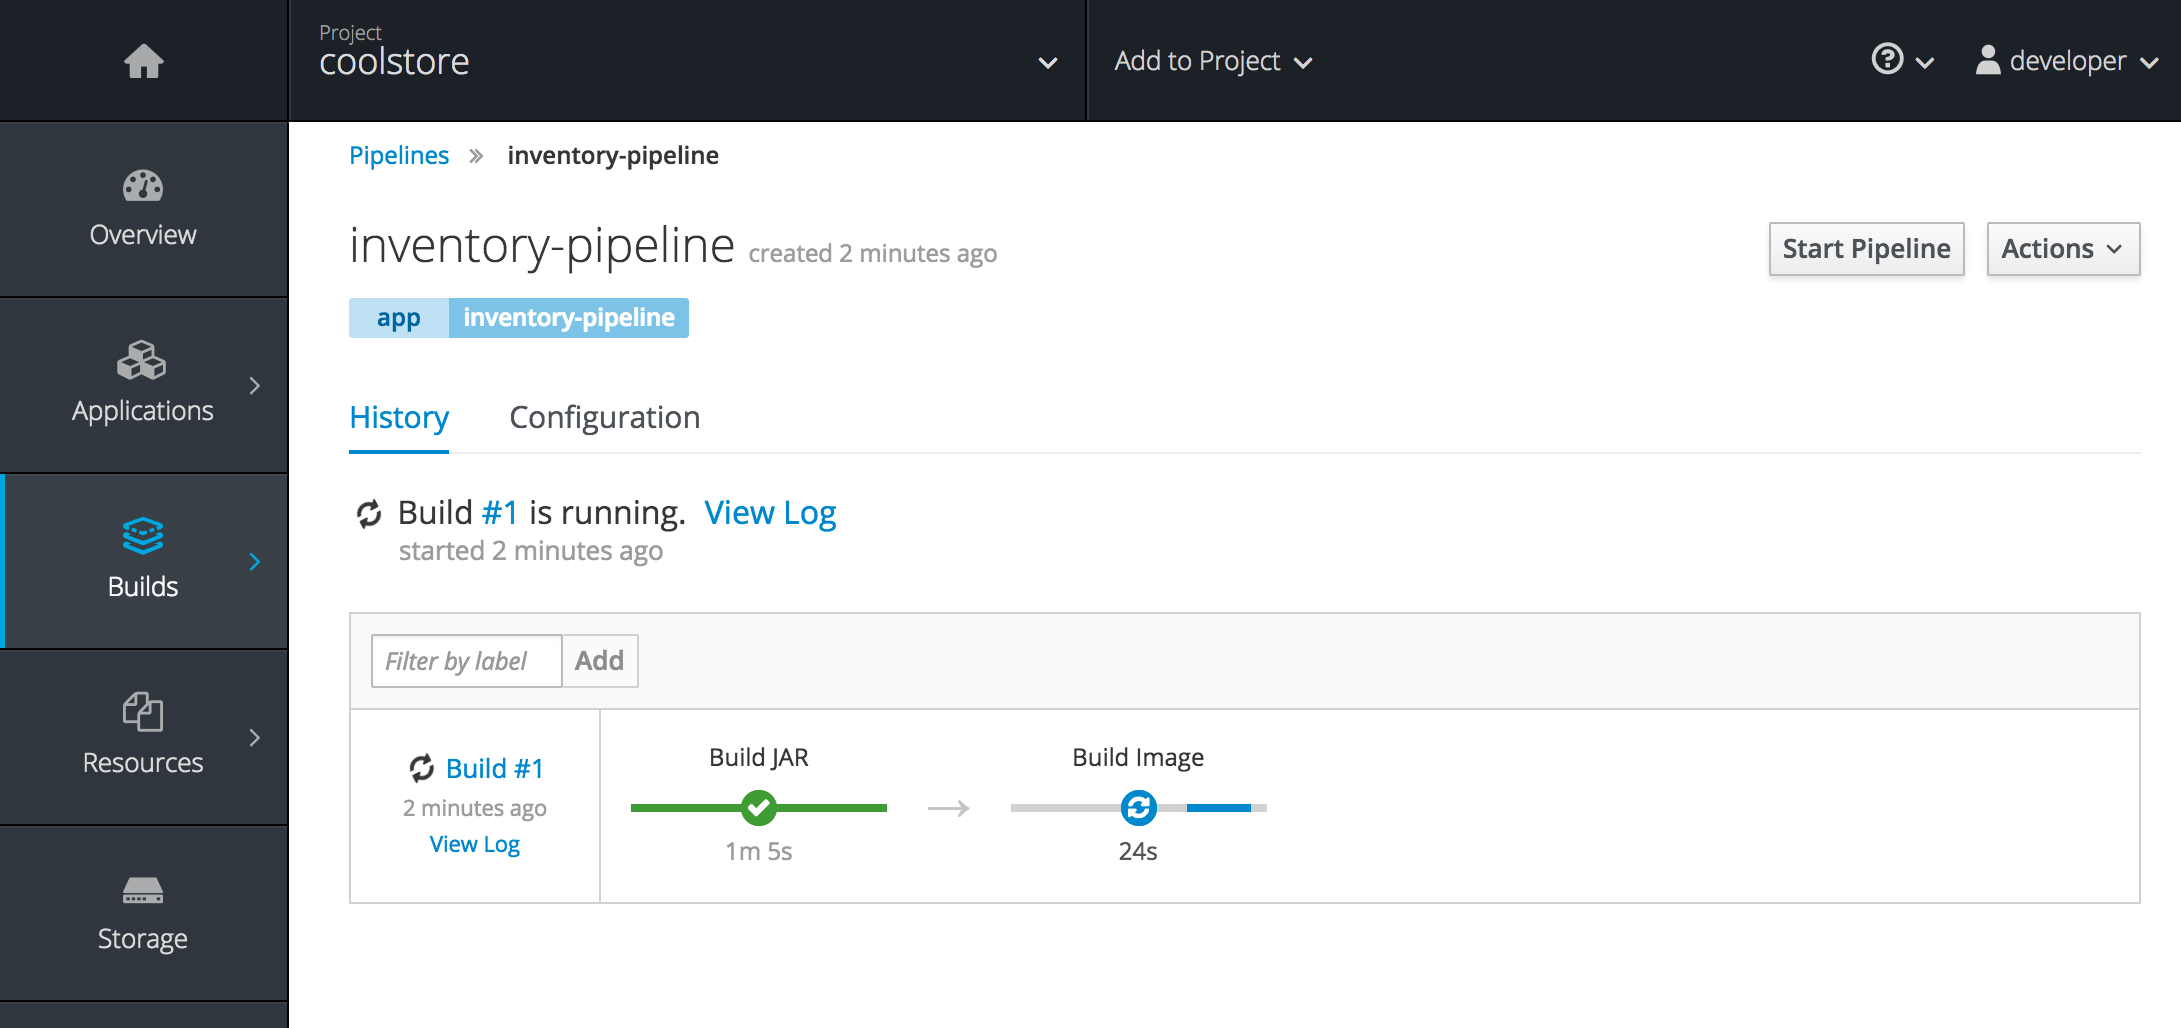
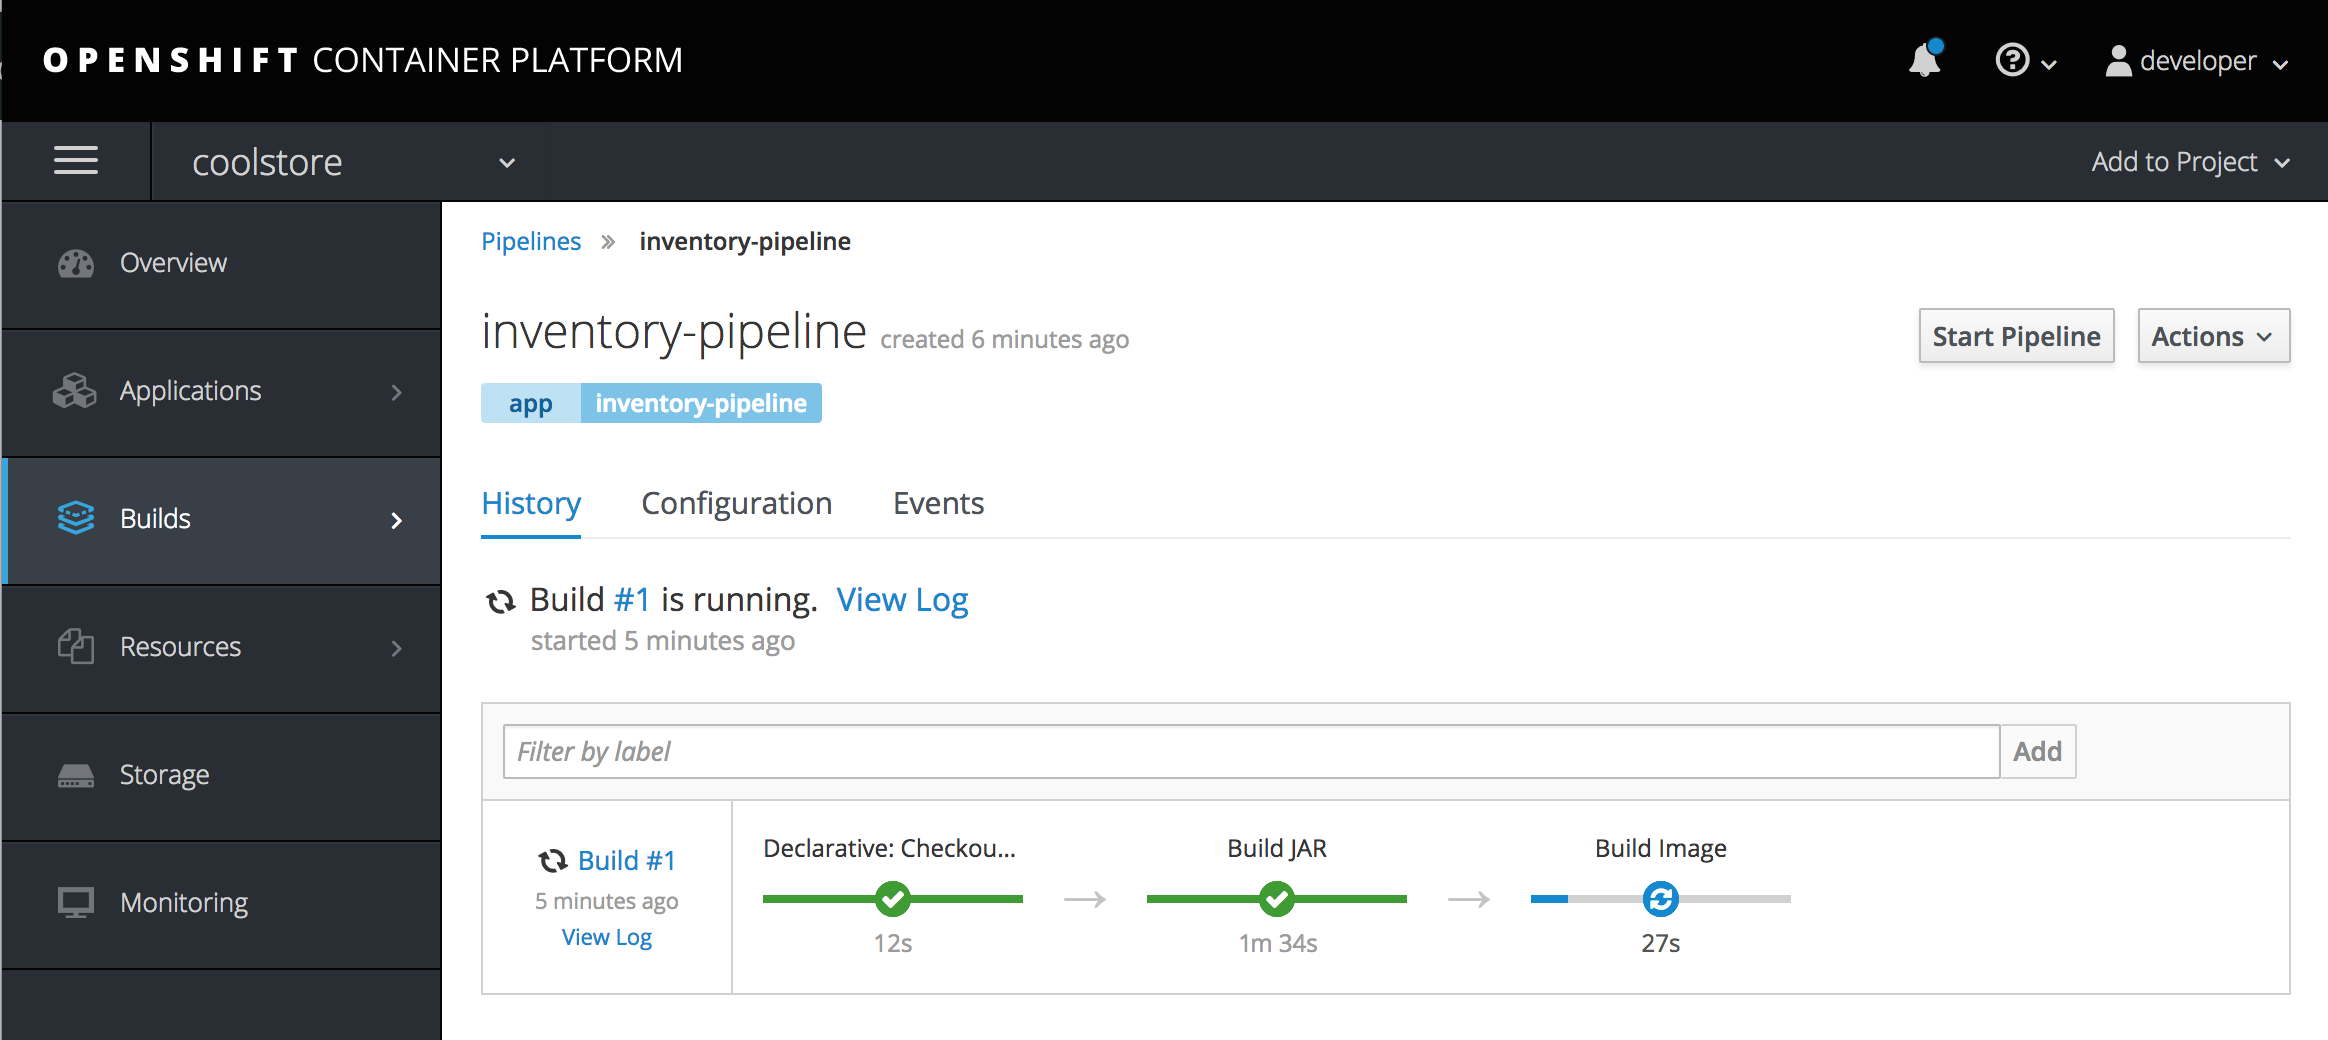
updated to ocp 3.7

diff --git a/continuous-delivery.md b/continuous-delivery.md
@@ -116,6 +116,16 @@ $ git init
 $ git remote add origin GIT-REPO-URL
 ~~~
 
+
+Before you commit the source code to the Git repository, configure your name and 
+email so that the commit owner can be seen on the repository. If you want, you can 
+replace the name and the email with your own in the following commands:
+
+~~~shell
+git config --global user.name "Developer"
+git config --global user.email "developer@os.com"
+~~~
+
 Commit and push the existing code to the GitHub repository.
 
 ~~~shell
@@ -150,25 +160,40 @@ and is created using a [scripted or declarative syntax](https://jenkins.io/doc/b
 
 Create a file called `Jenkinsfile` in the root the `inventory-wildfly-swarm`:
 
-> Replace `GIT-REPO-URL` with the Git repository url copied in the previous steps
-
 ~~~shell
 cat <<EOF > Jenkinsfile
-node("maven") {
-  stage("Build JAR") {
-    git url: "GIT-REPO-URL"
-    sh "mvn clean package"
-    stash name:"jar", includes:"target/inventory-1.0-SNAPSHOT-swarm.jar"
+pipeline {
+  agent {
+      label 'maven'
   }
-
-  stage("Build Image") {
-    unstash name:"jar"
-    sh "oc start-build inventory-s2i --from-file=target/inventory-1.0-SNAPSHOT-swarm.jar"
-    openshiftVerifyBuild bldCfg: "inventory-s2i", waitTime: '20', waitUnit: 'min'
-  }
-
-  stage("Deploy") {
-    openshiftDeploy deploymentConfig: "inventory"
+  stages {
+    stage('Build JAR') {
+      steps {
+        sh "mvn package"
+        stash name:"jar", includes:"target/inventory-1.0-SNAPSHOT-swarm.jar"
+      }
+    }
+    stage('Build Image') {
+      steps {
+        unstash name:"jar"
+        script {
+          openshift.withCluster() {
+            openshift.startBuild("inventory-s2i", "--from-file=target/inventory-1.0-SNAPSHOT-swarm.jar", "--wait")
+          }
+        }
+      }
+    }
+    stage('Deploy') {
+      steps {
+        script {
+          openshift.withCluster() {
+            def dc = openshift.selector("dc", "inventory")
+            dc.rollout().latest()
+            dc.rollout().status()
+          }
+        }
+      }
+    }
   }
 }
 EOF
@@ -178,7 +203,7 @@ This pipeline has three stages:
 
 * *Build JAR*: to build and test the jar file using Maven
 * *Build Image*: to build a container image from the Inventory JAR archive using OpenShift S2I
-* *Deploy Image*: to deploy the Inventory container image in the current project
+* *Deploy*: to deploy the Inventory container image in the current project
 
 Note that the pipeline definition is fully integrated with OpenShift and you can 
 perform operations like image build, image deploy, etc directly from within the `Jenkinsfile`.
@@ -201,7 +226,18 @@ this `Jenkinsfile`.
 
 Like mentioned, [OpenShift Pipelines]({{OPENSHIFT_DOCS_BASE}}/architecture/core_concepts/builds_and_image_streams.html#pipeline-build) enable creating deployment pipelines using the widely popular `Jenkinsfile` format.
 
-Create a deployment pipeline.
+OpenShift automates deployments using [deployment triggers]({{OPENSHIFT_DOCS_BASE}}/dev_guide/deployments/basic_deployment_operations.html#triggers) that react to changes to the container image or configuration. Since you want to control the deployments instead 
+from the pipeline, you should remove the Inventory deploy triggers so that building a new 
+Inventory container image wouldn't automatically result in a new deployment. That would 
+allow the pipeline to decide when a deployment should occur.
+
+Remove the Inventory deployment triggers:
+
+~~~shell
+$ oc set triggers dc/inventory --remove-all
+~~~
+
+Now create the deployment pipeline:
 
 > Make sure to run the `oc new-app` command from within the `inventory-widlfly-swarm` folder.
 
@@ -214,18 +250,6 @@ configured to fetch the `Jenkinsfile` from the Git repository of the current fol
 (`inventory-wildfly-swarm` Git repository) and execute it on Jenkins. As soon as the 
 pipeline is created, OpenShift auto-provisions a Jenkins server in your project, using 
 the certified Jenkins image that is available in OpenShift image registry.
-
-
-{% if OCP_VERSION == "3.6" %}
-There is currently a bug in OpenShift 3.6 that prevents the pipeline from getting started 
-when it's just created via command line. The issue is already resolved upstream. To get around 
-this issue, restart the pipeline:
-
-~~~shell
-$ oc cancel-build bc/inventory-pipeline --restart
-~~~
-
-{% endif %}
 
 Go OpenShift Web Console inside the **{{COOLSTORE_PROJECT}}** project and from the left sidebar 
 click on **Builds >> Pipelines**

diff --git a/app-config.md b/app-config.md
@@ -276,7 +276,7 @@ When the Catalog container is ready, verify that the PostgreSQL database is bein
 used. Check the Catalog pod logs:
 
 ~~~shell
-oc logs dc/catalog | grep hibernate.dialect
+$ oc logs dc/catalog | grep hibernate.dialect
 
 2017-08-10 21:07:51.670  INFO 1 --- [           main] org.hibernate.dialect.Dialect            : HHH000400: Using dialect: org.hibernate.dialect.PostgreSQL94Dialect
 ~~~
@@ -332,20 +332,22 @@ the database credentials in a secret in the project it's being created:
 ~~~shell
 $ oc describe secret catalog-postgresql
 
-Name:           catalog-postgresql
-Namespace:      coolstore
-Labels:         app=catalog
-                template=postgresql-persistent-template
-Annotations:    openshift.io/generated-by=OpenShiftNewApp
-                template.openshift.io/expose-password={.data['database-password']}
-                template.openshift.io/expose-username={.data['database-user']}
+Name:            catalog-postgresql
+Namespace:       coolstore
+Labels:          app=catalog
+                 template=postgresql-persistent-template
+Annotations:     openshift.io/generated-by=OpenShiftNewApp
+                 template.openshift.io/expose-database_name={.data['database-name']}
+                 template.openshift.io/expose-password={.data['database-password']}
+                 template.openshift.io/expose-username={.data['database-user']}
 
-Type:	Opaque
+Type:     Opaque
 
 Data
 ====
-database-password:  9 bytes
-database-user:      9 bytes
+database-name:        7 bytes
+database-password:    7 bytes
+database-user:        7 bytes
 ~~~
 
 This secret has two encrypted properties defined as `database-user` and `database-password` which hold 
